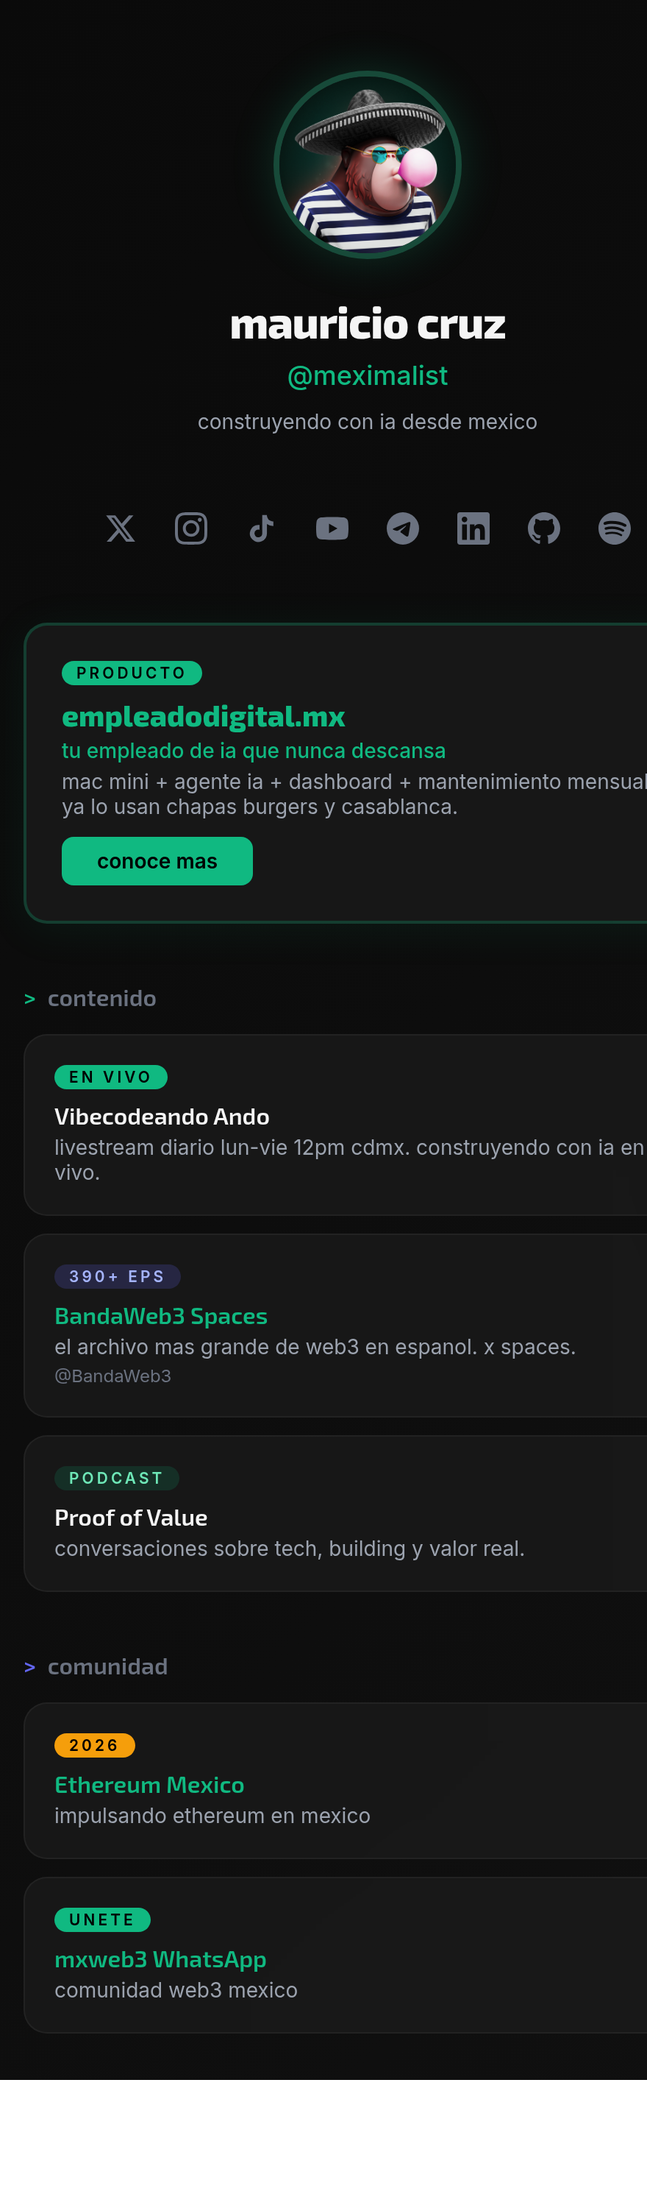
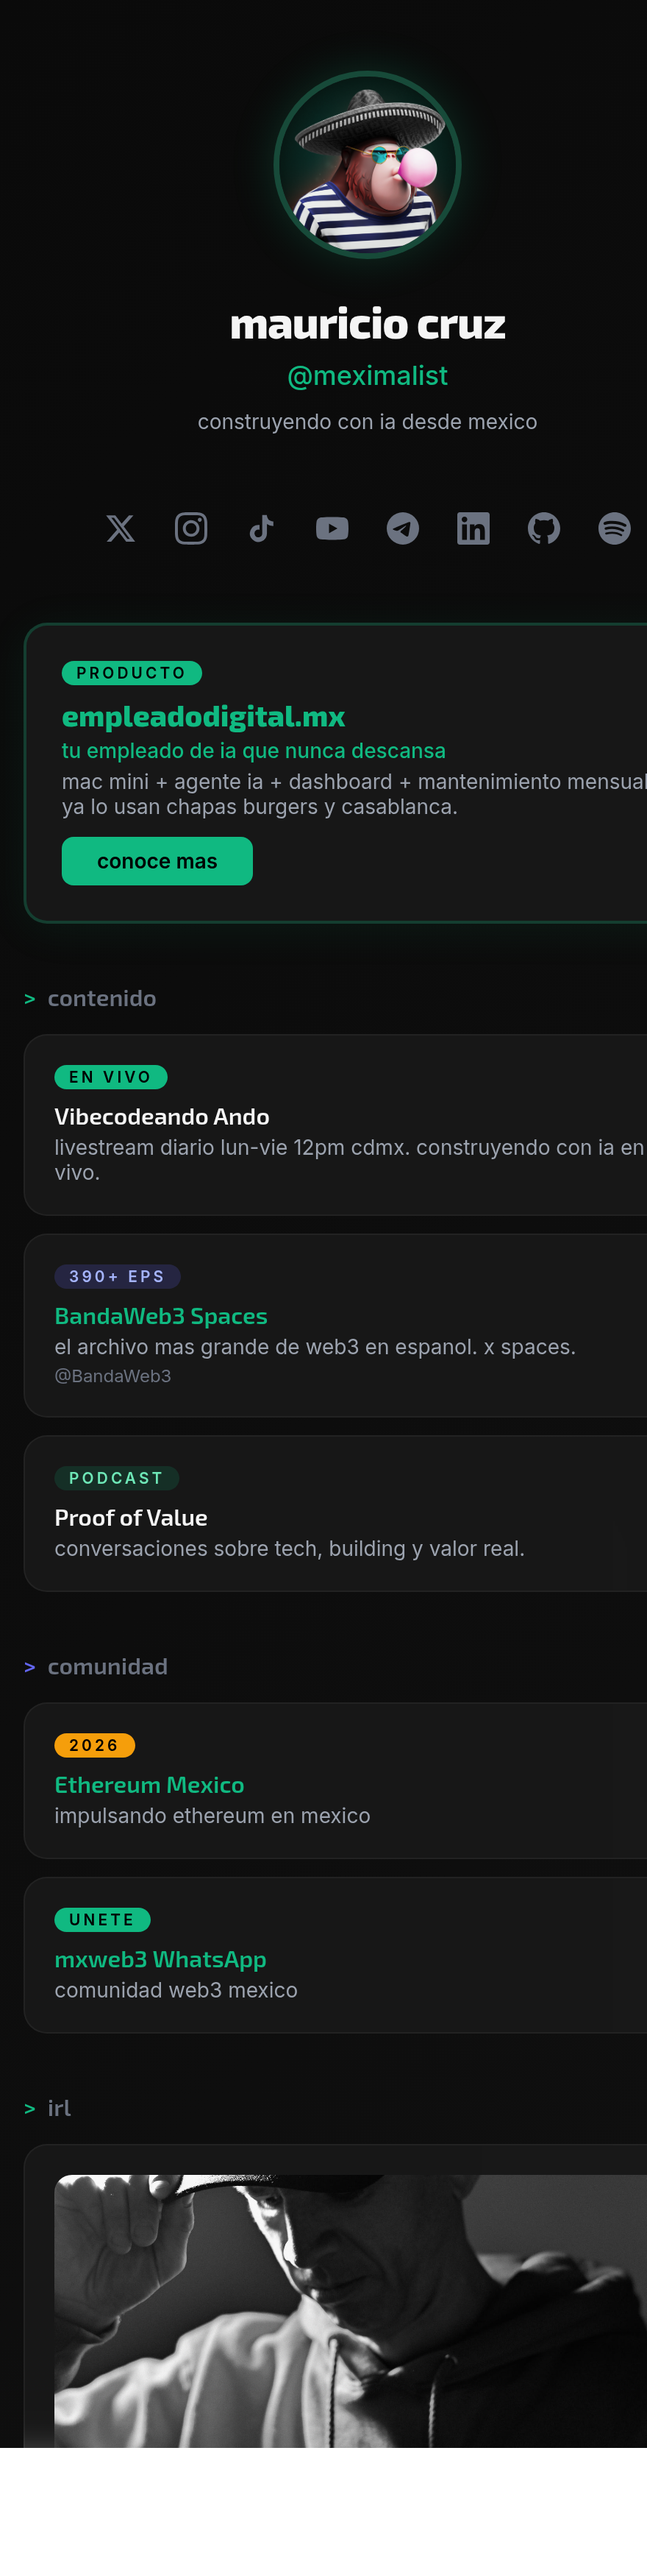
Feat: Add real photography + bridge thesis
7 editorial photos (1 color hero + 6 B&W) optimized to web sizes (43-595KB).

Photo assignments:
- meximalist.com hero: headshot-color.jpg
- meximalist.com about: headshot-bw-arms-crossed.jpg (founder pose)
- meximalist.com nav avatar: avatar-meximalist.jpg (512x512 square crop)
- mexi.wtf "irl" bridge section: bridge-ape-cap-front.jpg
- Press kit alts: bw-vneck, bw-vneck-alt, bw-shirt-dots, bw-arms-crossed

Bridge thesis added to BRAND_BRIEF and BRAND_ARCHITECTURE:
The 3D ape avatar is not exclusive to mexi.wtf — it also exists as
physical merchandise (caps, hoodies). Photos with the ape cap are the
only images that can cross between surfaces, signaling that the playful
side is integrated into the operator identity.

Mockups updated:
- meximalist.html: real headshot in hero, B&W power shot in about
- mexi-wtf.html: new "irl" section showcasing ape merch as bridge

Dashboard updated:
- New Photography section with semantic asset assignments
- Avatar section now shows both digital ape + real headshot avatar
- Bridge thesis explained inline

diff --git a/dashboard.html b/dashboard.html
@@ -268,6 +268,7 @@
       <a class="section-label">Identity</a>
       <a href="#logos">Logos</a>
       <a href="#avatar">Avatar</a>
+      <a href="#photography">Photography</a>
       <a href="#og">OG images</a>
       <a class="section-label">Foundation</a>
       <a href="#palette">Palette</a>
@@ -415,15 +416,112 @@
     <!-- AVATAR -->
     <section id="avatar">
       <h2>Avatar</h2>
-      <p class="lede">El ape canon es exclusivo de mexi.wtf. meximalist.com usará foto real (pendiente).</p>
+      <p class="lede">Cada superficie tiene su avatar primario. El ape vive en lo digital y en merchandise física — eso permite el bridge image.</p>
       <div class="asset-grid">
         <div class="asset">
           <div class="asset-frame dark" style="min-height:280px"><img src="assets/avatar/ape.png" alt="Ape avatar" style="max-width:240px;border-radius:24px;border:4px solid rgba(16,185,129,0.3);box-shadow:0 0 30px rgba(16,185,129,0.2)"></div>
-          <div class="asset-meta"><h4>mexi.wtf · Ape avatar (canon)</h4><p>Sombrero charro · aviators · bubble gum · navy stripes</p></div>
+          <div class="asset-meta"><h4>mexi.wtf · Ape avatar (canon)</h4><p>Sombrero charro · aviators · bubble gum · navy stripes · 3D digital</p></div>
         </div>
         <div class="asset">
-          <div class="asset-frame dark" style="min-height:280px;color:var(--color-text-tertiary);font-size:var(--fs-sm)">Pendiente — foto real para meximalist.com</div>
-          <div class="asset-meta"><h4>meximalist.com · Headshot</h4><p>Editorial, fondo neutro, alta resolución · TODO</p></div>
+          <div class="asset-frame dark" style="min-height:280px;padding:0"><img src="assets/photos/avatar-meximalist.jpg" alt="Mauricio Cruz avatar" style="width:240px;height:240px;border-radius:50%;object-fit:cover;box-shadow:0 8px 24px rgba(0,0,0,0.4)"></div>
+          <div class="asset-meta"><h4>meximalist.com · Real headshot avatar</h4><p>Color · square crop 512×512 · usado en nav y favicon profesional</p></div>
+        </div>
+      </div>
+    </section>
+
+    <!-- PHOTOGRAPHY -->
+    <section id="photography">
+      <h2>Photography</h2>
+      <p class="lede">Editorial B&amp;W + 1 color. Cada foto tiene un uso semántico asignado.</p>
+
+      <div style="display:grid;grid-template-columns:repeat(auto-fit,minmax(260px,1fr));gap:var(--space-6)">
+
+        <div class="asset">
+          <div class="asset-frame" style="padding:0;background:#0a0a0a;min-height:auto"><img src="assets/photos/headshot-color.jpg" alt="Hero color" style="width:100%;max-height:none;display:block"></div>
+          <div class="asset-meta">
+            <h4>headshot-color.jpg</h4>
+            <p style="margin-bottom:var(--space-2)">Color · camisa azul · mirada directa</p>
+            <span class="chip"><strong>meximalist.com hero</strong></span>
+          </div>
+        </div>
+
+        <div class="asset">
+          <div class="asset-frame" style="padding:0;background:#0a0a0a;min-height:auto"><img src="assets/photos/headshot-bw-arms-crossed.jpg" alt="Arms crossed" style="width:100%;max-height:none;display:block;filter:grayscale(0)"></div>
+          <div class="asset-meta">
+            <h4>headshot-bw-arms-crossed.jpg</h4>
+            <p style="margin-bottom:var(--space-2)">B&amp;W · brazos cruzados · founder pose</p>
+            <span class="chip"><strong>meximalist about</strong></span>
+          </div>
+        </div>
+
+        <div class="asset">
+          <div class="asset-frame" style="padding:0;background:#0a0a0a;min-height:auto"><img src="assets/photos/headshot-bw-vneck.jpg" alt="V-neck" style="width:100%;max-height:none;display:block"></div>
+          <div class="asset-meta">
+            <h4>headshot-bw-vneck.jpg</h4>
+            <p style="margin-bottom:var(--space-2)">B&amp;W · playera negra · clean editorial</p>
+            <span class="chip">press kit</span>
+          </div>
+        </div>
+
+        <div class="asset">
+          <div class="asset-frame" style="padding:0;background:#0a0a0a;min-height:auto"><img src="assets/photos/headshot-bw-shirt-dots.jpg" alt="Shirt dots" style="width:100%;max-height:none;display:block"></div>
+          <div class="asset-meta">
+            <h4>headshot-bw-shirt-dots.jpg</h4>
+            <p style="margin-bottom:var(--space-2)">B&amp;W · camisa con dots · expresión seria-cálida</p>
+            <span class="chip">press alt</span>
+          </div>
+        </div>
+
+        <div class="asset">
+          <div class="asset-frame" style="padding:0;background:#0a0a0a;min-height:auto"><img src="assets/photos/headshot-bw-vneck-alt.jpg" alt="V-neck alt" style="width:100%;max-height:none;display:block"></div>
+          <div class="asset-meta">
+            <h4>headshot-bw-vneck-alt.jpg</h4>
+            <p style="margin-bottom:var(--space-2)">B&amp;W · playera V-neck · variante</p>
+            <span class="chip">bio variant</span>
+          </div>
+        </div>
+
+        <div class="asset" style="border-color:var(--color-border-accent)">
+          <div class="asset-frame" style="padding:0;background:#0a0a0a;min-height:auto;position:relative"><img src="assets/photos/bridge-ape-cap-front.jpg" alt="Bridge ape cap front" style="width:100%;max-height:none;display:block"><div style="position:absolute;top:8px;right:8px;background:var(--color-accent-primary);color:#000;font-size:0.65rem;font-weight:700;padding:2px 8px;border-radius:99px;letter-spacing:0.1em">BRIDGE</div></div>
+          <div class="asset-meta">
+            <h4>bridge-ape-cap-front.jpg</h4>
+            <p style="margin-bottom:var(--space-2)">B&amp;W · gorra ape frontal · merchandise</p>
+            <div style="display:flex;gap:var(--space-2);flex-wrap:wrap"><span class="chip"><strong>mexi.wtf irl</strong></span><span class="chip">meximalist press kit</span></div>
+          </div>
+        </div>
+
+        <div class="asset" style="border-color:var(--color-border-accent)">
+          <div class="asset-frame" style="padding:0;background:#0a0a0a;min-height:auto;position:relative"><img src="assets/photos/bridge-ape-cap-profile.jpg" alt="Bridge ape cap profile" style="width:100%;max-height:none;display:block"><div style="position:absolute;top:8px;right:8px;background:var(--color-accent-primary);color:#000;font-size:0.65rem;font-weight:700;padding:2px 8px;border-radius:99px;letter-spacing:0.1em">BRIDGE</div></div>
+          <div class="asset-meta">
+            <h4>bridge-ape-cap-profile.jpg</h4>
+            <p style="margin-bottom:var(--space-2)">B&amp;W · perfil dramático · contraluz · editorial</p>
+            <span class="chip">bridge alt</span>
+          </div>
+        </div>
+
+      </div>
+
+      <!-- The bridge tesis -->
+      <div style="background:var(--color-bg-tertiary);border:1px solid var(--color-border-accent);border-radius:var(--radius-xl);padding:var(--space-8);margin-top:var(--space-8)">
+        <div style="color:var(--color-accent-primary);font-size:0.7rem;font-weight:600;letter-spacing:var(--ls-widest);text-transform:uppercase;margin-bottom:var(--space-3)">&gt; THE BRIDGE THESIS</div>
+        <h3 style="font-family:var(--font-display);font-weight:800;font-size:var(--fs-2xl);margin:0 0 var(--space-3);letter-spacing:var(--ls-tight)">El ape no es solo digital. Es la marca personal.</h3>
+        <p style="color:var(--color-text-secondary);font-size:var(--fs-base);margin:0 0 var(--space-4);max-width:700px">Mauricio usa gorras y hoodies con el logo del ape bordado. Esto convierte al ape en un activo de marca compartido, no en un avatar que vive solo en mexi.wtf. Las fotos con la gorra ape son las únicas que pueden cruzar entre las dos superficies.</p>
+        <div style="display:grid;grid-template-columns:1fr 1fr;gap:var(--space-6);margin-top:var(--space-6)">
+          <div>
+            <div style="font-size:0.7rem;font-weight:600;color:var(--color-text-tertiary);letter-spacing:var(--ls-widest);text-transform:uppercase;margin-bottom:var(--space-2)">USAR BRIDGE EN</div>
+            <ul style="margin:0;padding-left:var(--space-4);color:var(--color-text-secondary);font-size:var(--fs-sm);line-height:1.8">
+              <li><strong style="color:var(--color-text-primary);font-weight:500">mexi.wtf</strong> → sección "irl" cerca del footer</li>
+              <li><strong style="color:var(--color-text-primary);font-weight:500">meximalist.com</strong> → long-form bio o press kit</li>
+            </ul>
+          </div>
+          <div>
+            <div style="font-size:0.7rem;font-weight:600;color:var(--color-text-tertiary);letter-spacing:var(--ls-widest);text-transform:uppercase;margin-bottom:var(--space-2)">NUNCA</div>
+            <ul style="margin:0;padding-left:var(--space-4);color:var(--color-text-secondary);font-size:var(--fs-sm);line-height:1.8">
+              <li>Ape 3D digital en meximalist.com</li>
+              <li>Headshot color sonriente en mexi.wtf</li>
+              <li>Bridge image como hero principal en ninguna</li>
+            </ul>
+          </div>
         </div>
       </div>
     </section>

diff --git a/mockups/meximalist.html b/mockups/meximalist.html
@@ -31,10 +31,17 @@ a:hover { color: var(--color-accent-primary); }
 /* HERO */
 .hero { display: grid; grid-template-columns: 320px 1fr; gap: var(--space-12); margin-bottom: var(--space-24); align-items: center; }
 @media (max-width: 800px) { .hero { grid-template-columns: 1fr; gap: var(--space-8); text-align: center; } }
-.headshot { width: 320px; height: 320px; border-radius: var(--radius-2xl); background: linear-gradient(135deg, #1a1a1a 0%, #262626 100%); position: relative; overflow: hidden; box-shadow: 0 8px 24px rgba(0,0,0,0.3); }
-.headshot::before { content: 'Mauricio Cruz · headshot'; position: absolute; inset: 0; display: flex; align-items: center; justify-content: center; color: var(--color-text-tertiary); font-size: var(--fs-xs); font-style: italic; }
-.headshot::after { content: ''; position: absolute; inset: 0; background: radial-gradient(circle at 60% 40%, rgba(16,185,129,0.08), transparent 70%); }
-@media (max-width: 800px) { .headshot { width: 240px; height: 240px; margin: 0 auto; } }
+.headshot { width: 320px; height: 380px; border-radius: var(--radius-2xl); position: relative; overflow: hidden; box-shadow: 0 8px 24px rgba(0,0,0,0.4); background: linear-gradient(135deg, #1a1a1a 0%, #262626 100%); }
+.headshot img { width: 100%; height: 100%; object-fit: cover; object-position: center 20%; display: block; }
+.headshot::after { content: ''; position: absolute; inset: 0; background: linear-gradient(to bottom, transparent 60%, rgba(0,0,0,0.4)); pointer-events: none; }
+@media (max-width: 800px) { .headshot { width: 240px; height: 280px; margin: 0 auto; } }
+
+/* Avatar in nav (small) */
+.nav-avatar { width: 32px; height: 32px; border-radius: 50%; object-fit: cover; }
+
+/* About avatar block */
+.about-photo { width: 100%; max-width: 340px; aspect-ratio: 4/5; border-radius: var(--radius-xl); overflow: hidden; }
+.about-photo img { width: 100%; height: 100%; object-fit: cover; display: block; filter: grayscale(0); }
 .hero-eyebrow { color: var(--color-accent-primary); font-size: var(--fs-xs); font-weight: 600; letter-spacing: var(--ls-widest); text-transform: uppercase; margin-bottom: var(--space-3); }
 .hero h1 { font-family: var(--font-display); font-weight: 800; font-size: clamp(2.5rem, 5vw, 4rem); margin: 0 0 var(--space-2); letter-spacing: var(--ls-tighter); line-height: 1.05; }
 .hero .role { color: var(--color-text-secondary); font-size: var(--fs-xl); font-weight: 500; margin: 0 0 var(--space-4); }
@@ -107,7 +114,7 @@ footer { border-top: 1px solid rgba(255,255,255,0.05); padding: var(--space-8) 0
 <nav class="nav">
   <div class="nav-inner">
     <a href="#" class="nav-brand">
-      <span class="nav-monogram">M</span>
+      <img src="../assets/photos/avatar-meximalist.jpg" alt="Mauricio Cruz" class="nav-avatar">
       Mauricio Cruz
     </a>
     <div class="nav-links">
@@ -124,7 +131,9 @@ footer { border-top: 1px solid rgba(255,255,255,0.05); padding: var(--space-8) 0
 
   <!-- HERO -->
   <header class="hero">
-    <div class="headshot"></div>
+    <div class="headshot">
+      <img src="../assets/photos/headshot-color.jpg" alt="Mauricio Cruz · headshot">
+    </div>
     <div>
       <div class="hero-eyebrow">Operator y builder · CDMX</div>
       <h1>Mauricio Cruz</h1>
@@ -190,12 +199,14 @@ footer { border-top: 1px solid rgba(255,255,255,0.05); padding: var(--space-8) 0
     <div class="section-eyebrow">About</div>
     <h2>Bio</h2>
 
-    <div class="bio-block">
-      <div class="label">Now</div>
+    <div style="display:grid;grid-template-columns:340px 1fr;gap:var(--space-12);align-items:start;margin-top:var(--space-8)">
+      <div class="about-photo">
+        <img src="../assets/photos/headshot-bw-arms-crossed.jpg" alt="Mauricio Cruz">
+      </div>
       <div>
-        <p><strong>Operator y builder mexicano</strong> enfocado en hacer que la IA sea operacional para empresas en México. Fundador de EmpleadoDigital.mx, donde despliego agentes de IA en infraestructura local (Mac mini + dashboard + mantenimiento mensual) para PyMEs.</p>
-        <p>En paralelo, construyo en público: opero <strong>BandaWeb3</strong>, el archivo más grande de podcasts Web3 en español con 390+ episodios. Cada día de lunes a viernes a las 12pm CDMX transmito <strong>Vibecodeando Ando</strong>, donde construyo productos con IA en tiempo real.</p>
-        <p>Filosofía: proof of value sobre proof of concept. Antes de pitchar features, demuestro outcomes — revenue generado, horas ahorradas, deals cerrados. Activo en Ethereum México y mxweb3. Publico como <a href="https://x.com/meximalist">@meximalist</a>.</p>
+        <p style="color:var(--color-text-secondary);font-size:var(--fs-base);margin:0 0 var(--space-3);max-width:640px"><strong style="color:var(--color-text-primary);font-weight:500">Operator y builder mexicano</strong> enfocado en hacer que la IA sea operacional para empresas en México. Fundador de EmpleadoDigital.mx, donde despliego agentes de IA en infraestructura local (Mac mini + dashboard + mantenimiento mensual) para PyMEs.</p>
+        <p style="color:var(--color-text-secondary);font-size:var(--fs-base);margin:0 0 var(--space-3);max-width:640px">En paralelo, construyo en público: opero <strong style="color:var(--color-text-primary);font-weight:500">BandaWeb3</strong>, el archivo más grande de podcasts Web3 en español con 390+ episodios. Cada día de lunes a viernes a las 12pm CDMX transmito <strong style="color:var(--color-text-primary);font-weight:500">Vibecodeando Ando</strong>, donde construyo productos con IA en tiempo real.</p>
+        <p style="color:var(--color-text-secondary);font-size:var(--fs-base);margin:0;max-width:640px">Filosofía: proof of value sobre proof of concept. Antes de pitchar features, demuestro outcomes — revenue generado, horas ahorradas, deals cerrados. Activo en Ethereum México y mxweb3. Publico como <a href="https://x.com/meximalist">@meximalist</a>.</p>
       </div>
     </div>
   </section>

diff --git a/mockups/mexi-wtf.html b/mockups/mexi-wtf.html
@@ -70,6 +70,17 @@ a:hover { color: var(--color-accent-primary-hover); }
 .icon-link:hover { color: var(--color-accent-primary); }
 .icon-link svg { width: 16px; height: 16px; }
 
+/* IRL bridge section */
+.irl { margin-bottom: var(--space-10); }
+.irl-card { display: grid; grid-template-columns: 140px 1fr; gap: var(--space-5); padding: var(--space-5); background: rgba(26, 26, 26, 0.8); backdrop-filter: blur(10px); border: 1px solid rgba(255,255,255,0.05); border-radius: var(--radius-xl); align-items: center; }
+.irl-photo { width: 140px; height: 180px; border-radius: var(--radius-lg); overflow: hidden; }
+.irl-photo img { width: 100%; height: 100%; object-fit: cover; display: block; }
+.irl-card h3 { font-family: var(--font-display); font-weight: 800; font-size: var(--fs-xl); margin: 0 0 var(--space-1); }
+.irl-card p { color: var(--color-text-secondary); font-size: var(--fs-sm); margin: 0 0 var(--space-2); }
+.irl-card .meta { color: var(--color-text-tertiary); font-size: var(--fs-xs); }
+.irl-card .meta a { color: var(--color-accent-primary); }
+@media (max-width: 500px) { .irl-card { grid-template-columns: 1fr; text-align: left; } .irl-photo { width: 100%; height: 220px; } }
+
 /* FOOTER */
 footer { text-align: center; color: var(--color-text-tertiary); font-size: var(--fs-sm); padding-top: var(--space-8); border-top: 1px solid rgba(255,255,255,0.05); }
 footer p { margin: var(--space-1) 0; }
@@ -168,6 +179,19 @@ footer .pipe { color: var(--color-text-disabled); margin: 0 var(--space-2); }
         <span class="arrow">→</span>
       </div>
     </a>
+  </section>
+
+  <!-- IRL · bridge -->
+  <section class="irl">
+    <h2 class="section-h">irl</h2>
+    <div class="irl-card">
+      <div class="irl-photo"><img src="../assets/photos/bridge-ape-cap-front.jpg" alt="Mauricio con gorra ape"></div>
+      <div>
+        <h3>el humano detras del ape</h3>
+        <p>el ape no es solo el avatar. es la marca. gorras, hoodies y bordados disponibles en eventos.</p>
+        <p class="meta">para inquiries de negocio: <a href="https://meximalist.com">meximalist.com</a></p>
+      </div>
+    </div>
   </section>
 
   <!-- CONECTA -->

diff --git a/docs/BRAND_BRIEF.md b/docs/BRAND_BRIEF.md
@@ -142,10 +142,29 @@ A México where every business — from a taquería to a SaaS — runs on AI age
 
 | Asset | meximalist.com | mexi.wtf |
 |---|---|---|
-| **Avatar** | Real headshot (editorial, neutral background) | Ape 3D (canon: charro hat, blue aviators, bubble gum, navy stripes) |
+| **Primary avatar** | Real headshot color (editorial, neutral gray bg) | Ape 3D (canon: charro hat, blue aviators, bubble gum, navy stripes) |
 | **Wordmark** | "Mauricio Cruz" in Inter SemiBold | "@meximalist" in Exo 2 Bold lowercase |
 | **Mark** | Monogram "MC" | "M" terminal-style with cursor |
-| **Photography** | Real photos (work, talks, behind-the-scenes) | Screenshots, code, builds, memes |
+| **Photography** | Editorial B&W (V-neck, arms crossed, dots shirt) | Screenshots, code, builds, memes |
+| **Bridge asset (ape merch)** | Optional: B&W photo with ape cap on press kit / about long form | Featured in "irl" section as continuity between digital ape and human |
+
+### The ape bridge — important clarification
+
+The 3D ape is **not exclusive to mexi.wtf as a digital-only avatar**. It also exists as physical merchandise (caps, hoodies with embroidered ape logo) that Mauricio actually wears. This creates a deliberate visual bridge:
+
+- **Digital ape** = mexi.wtf primary avatar
+- **Real Mauricio (color, smiling)** = meximalist.com primary headshot
+- **Real Mauricio + ape cap (B&W, editorial)** = bridge image, showing "the ape is part of the operator's identity, not a separate persona"
+
+This bridge image can appear:
+- On `mexi.wtf` in an "irl" section near the footer (humanize the digital identity)
+- On `meximalist.com` in long-form bio or press kit (signal that the playful side is integrated, not split off)
+
+**Never:**
+- The ape avatar (digital 3D) on `meximalist.com`
+- The color smiling headshot on `mexi.wtf` (saved for the operator surface)
+
+The bridge image is the only photo that can cross between surfaces.
 
 ---
 

diff --git a/docs/BRAND_ARCHITECTURE.md b/docs/BRAND_ARCHITECTURE.md
@@ -113,13 +113,22 @@ The cross-link is intentionally low-traffic. People who need the other register 
 
 ## 6. Logo / mark usage
 
-| Surface | Wordmark | Mark | Avatar |
-|---|---|---|---|
-| `meximalist.com` | "Mauricio Cruz" Inter SemiBold, capitalized | Monogram "MC" | Real headshot |
-| `mexi.wtf` | "@meximalist" Exo 2 Bold lowercase | "M" with terminal cursor | Ape 3D |
-| Cross-references | Wordmark only, never mark | — | — |
+| Surface | Wordmark | Mark | Primary avatar | Bridge image |
+|---|---|---|---|---|
+| `meximalist.com` | "Mauricio Cruz" Inter SemiBold, capitalized | Monogram "MC" | Real headshot color (smiling) | B&W with ape cap (optional, press kit) |
+| `mexi.wtf` | "@meximalist" Exo 2 Bold lowercase | "M" with terminal cursor | Ape 3D | B&W with ape cap (in "irl" section) |
+| Cross-references | Wordmark only, never mark | — | — | — |
 
-**Never mix:** the ape avatar does not appear on `meximalist.com`. The real headshot does not appear on `mexi.wtf`. Each surface owns its visual identity completely.
+**Never mix:** the digital 3D ape avatar does not appear on `meximalist.com`. The color smiling headshot does not appear on `mexi.wtf`. Each surface owns its **primary** visual identity completely.
+
+### The bridge image (deliberate exception)
+
+The B&W photo of Mauricio wearing the ape cap is a **bridge asset** — it can appear on both surfaces because it shows continuity between the digital ape and the physical operator. It signals "the ape is merchandise the human wears, not a separate persona." Use it sparingly:
+
+- `mexi.wtf` → "irl" section (footer-area, humanizes the digital)
+- `meximalist.com` → long-form bio or press kit (signals integrated personality, not split)
+
+This is the only image that crosses between surfaces. All other photography stays in its own lane.
 
 ---
 
